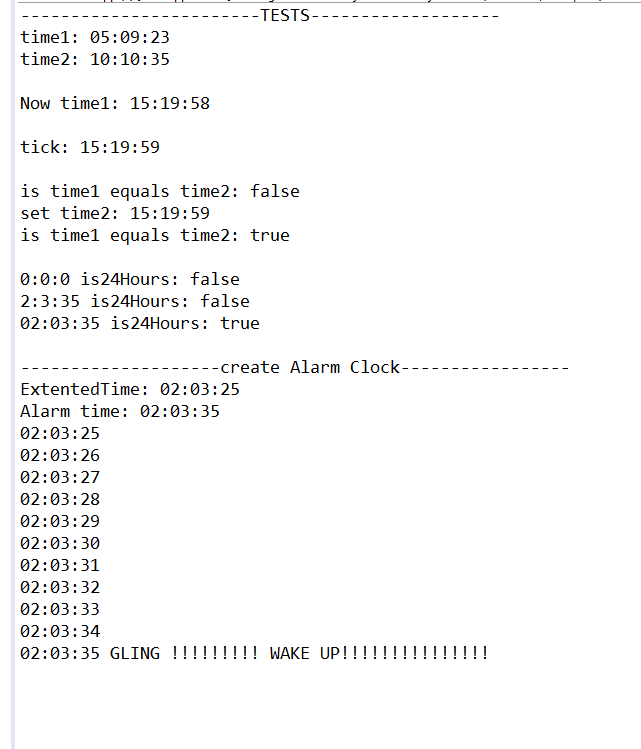
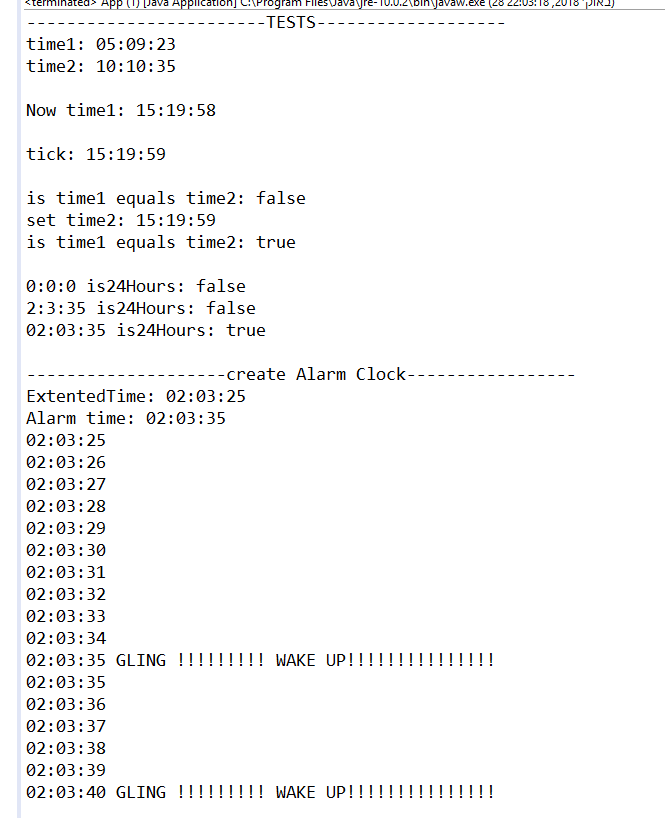
exercise HW

diff --git a/24-10-18/AlarmClock/App.java b/24-10-18/AlarmClock/App.java
@@ -1,5 +1,7 @@
 package alarmClock;
 
+import java.sql.Time;
+
 public class App {
 
 	public static void main(String[] args) {
@@ -45,14 +47,15 @@ public class App {
 		System.out.println("ExtentedTime: "+ extentedTime.toSrting()+ "\nAlarm time: "+alarm.getTime().toSrting() );
     	 
     	
-    	int alarmSum=1;
-    	while (alarmSum>0) {
+    	
+    	for (int i = 2; i >0; ) {
     	System.out.println(extentedTime.toSrting());
     	extentedTime.tick();
     	if (alarm.isSet) {
     	if (extentedTime.equals(alarm.getTime())) {
     		System.out.println(extentedTime.toSrting()+" GLING !!!!!!!!! WAKE UP!!!!!!!!!!!!!!!");
-    		alarmSum--; 			
+    		alarm.time.setSecond(alarm.time.getSecond()+alarm.snoozTime);
+    		i--;
     	}
     	}
 	}
